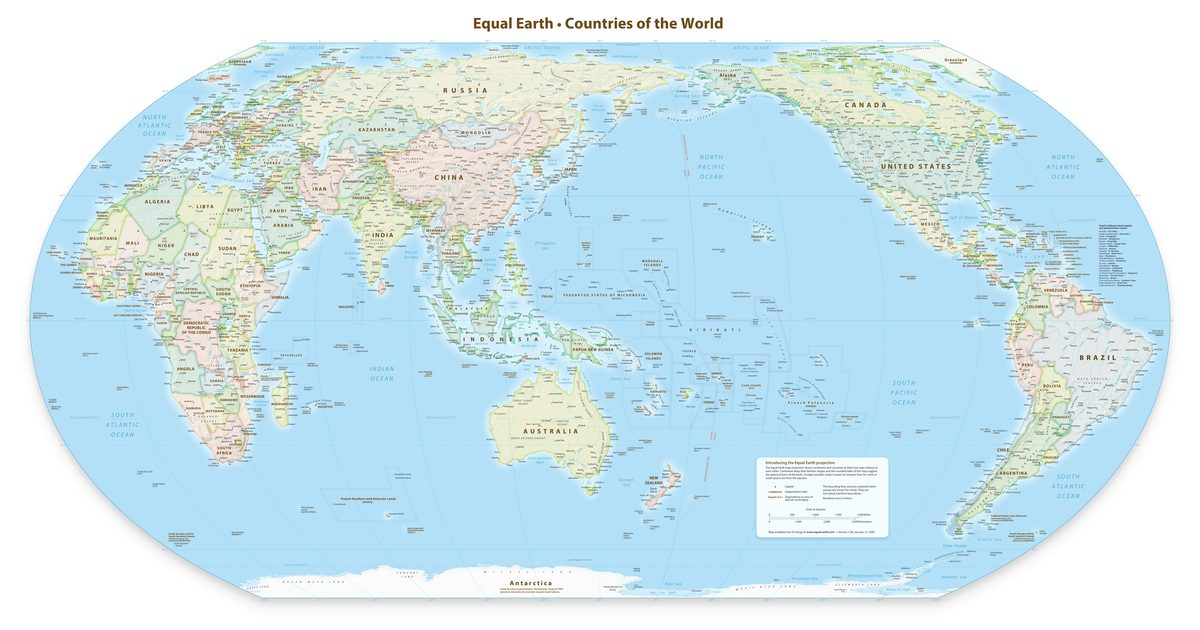
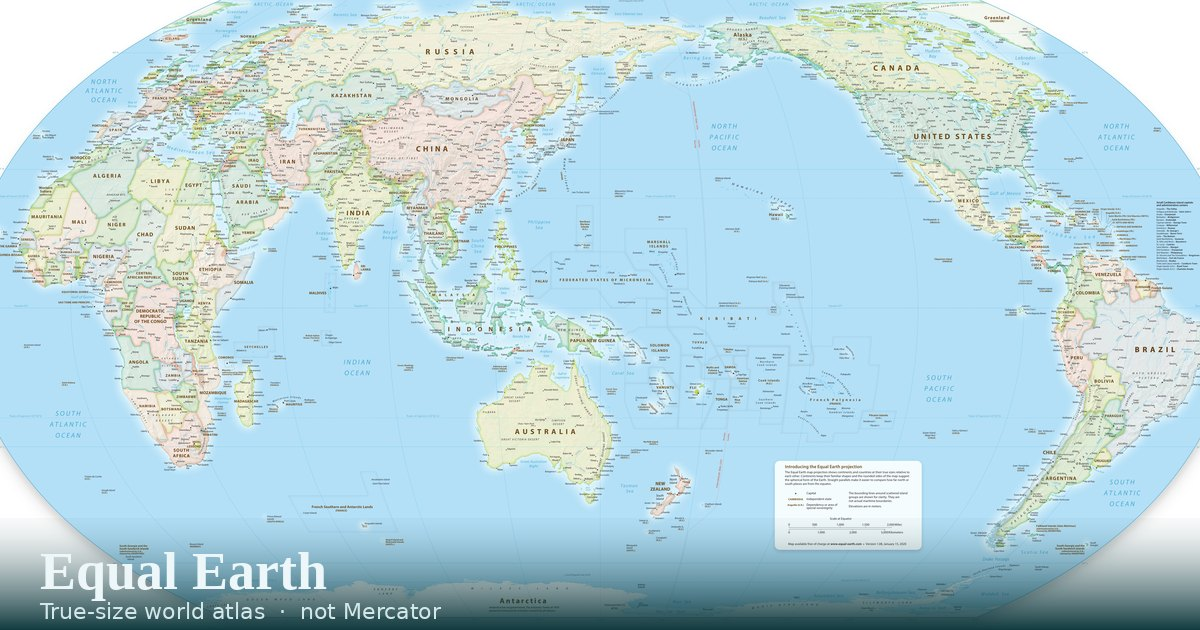
Fix Search Console Dataset markup and give link previews a true-size Equal Earth card.

diff --git a/src/i18n.ts b/src/i18n.ts
@@ -13,11 +13,12 @@ const ATLAS_LOCALE_META: Record<AtlasLocaleId, AtlasLocaleMeta> = {
 
 const EN: AtlasMessages = {
   metaTitle: "Equal Earth Projection — Interactive True-Size World Atlas",
-  metaDescription: "Interactive Equal Earth projection atlas. An equal-area world map with true country sizes, unlike Mercator. Search the map and download wall maps.",
-  ogImageAlt: "Equal Earth projection political world map centered on the Pacific",
+  metaDescription: "Interactive Equal Earth projection atlas: a true-size equal-area world map, unlike Mercator. See Africa's real size, search the map, download wall maps.",
+  ogImageAlt: "Equal Earth projection political world map with true country sizes, unlike Mercator",
   selectedTitle: "{name} — Equal Earth Map",
-  jsonLdAppDescription: "Interactive world atlas using the Equal Earth projection. Equal-area map with true relative country sizes, unlike Mercator, plus Natural Earth vectors and downloadable wall maps.",
-  jsonLdKeywords: "Equal Earth projection, equal-area projection, Mercator projection, true size world map, interactive world atlas, Africa true size",
+  jsonLdAppDescription: "Interactive Equal Earth projection atlas. An equal-area true-size world map with real country sizes, unlike Mercator, plus Natural Earth vectors and downloadable wall maps.",
+  jsonLdDatasetDescription: "Public-domain Natural Earth 1:50 million vectors used by this Equal Earth projection atlas to draw an equal-area true-size world map, including countries, lakes, rivers, and populated places.",
+  jsonLdKeywords: "Equal Earth, Equal Earth projection, equal-area projection, Mercator, Mercator projection, world map, true size map, real size map, interactive atlas, Africa true size",
   skipToSearch: "Skip to map",
   brandHome: "Equal Earth home",
   tagline: "Equal Earth projection, not Mercator",
@@ -166,11 +167,12 @@ const EN: AtlasMessages = {
 
 const ES: AtlasMessages = {
   metaTitle: "Proyección Equal Earth — Atlas mundial interactivo a tamaño real",
-  metaDescription: "Atlas interactivo en proyección Equal Earth. Un mapa de áreas equivalentes con el tamaño real de los países, a diferencia de Mercator. Busca en el mapa y descarga mapas de pared.",
-  ogImageAlt: "Mapa político mundial en proyección Equal Earth centrado en el Pacífico",
+  metaDescription: "Atlas interactivo en proyección Equal Earth: un mapa mundial de tamaño real e igual área, a diferencia de Mercator. Mira el tamaño real de África, busca en el mapa y descarga mapas de pared.",
+  ogImageAlt: "Mapa político mundial en proyección Equal Earth con el tamaño real de los países, a diferencia de Mercator",
   selectedTitle: "{name} — Equal Earth Map",
-  jsonLdAppDescription: "Atlas mundial interactivo con la proyección Equal Earth. Mapa de áreas equivalentes con tamaños relativos reales, a diferencia de Mercator, más vectores de Natural Earth y mapas de pared descargables.",
-  jsonLdKeywords: "proyección Equal Earth, proyección equivalente, proyección Mercator, mapa mundial a tamaño real, atlas mundial interactivo, África tamaño real",
+  jsonLdAppDescription: "Atlas interactivo en proyección Equal Earth. Mapa mundial de tamaño real e igual área, a diferencia de Mercator, más vectores de Natural Earth y mapas de pared descargables.",
+  jsonLdDatasetDescription: "Vectores Natural Earth 1:50 millones de dominio público usados por este atlas en proyección Equal Earth para un mapa mundial de tamaño real e igual área, incluidos países, lagos, ríos y lugares poblados.",
+  jsonLdKeywords: "Equal Earth, proyección Equal Earth, proyección equivalente, Mercator, proyección Mercator, mapa mundial, mapa a tamaño real, atlas interactivo, África tamaño real",
   skipToSearch: "Ir al mapa",
   brandHome: "Inicio de Equal Earth",
   tagline: "Proyección Equal Earth, no Mercator",
@@ -319,11 +321,12 @@ const ES: AtlasMessages = {
 
 const FR: AtlasMessages = {
   metaTitle: "Projection Equal Earth — Atlas mondial interactif à taille réelle",
-  metaDescription: "Atlas interactif en projection Equal Earth. Une carte équivalente avec la taille réelle des pays, contrairement à Mercator. Cherchez sur la carte et téléchargez des cartes murales.",
-  ogImageAlt: "Carte politique mondiale en projection Equal Earth centrée sur le Pacifique",
+  metaDescription: "Atlas interactif en projection Equal Earth : une carte mondiale à taille réelle, équivalente, contrairement à Mercator. Voyez la taille réelle de l’Afrique, cherchez sur la carte, téléchargez des cartes murales.",
+  ogImageAlt: "Carte politique mondiale en projection Equal Earth avec la taille réelle des pays, contrairement à Mercator",
   selectedTitle: "{name} — Equal Earth Map",
-  jsonLdAppDescription: "Atlas mondial interactif en projection Equal Earth. Carte équivalente aux tailles relatives réelles, contrairement à Mercator, plus les vecteurs Natural Earth et des cartes murales téléchargeables.",
-  jsonLdKeywords: "projection Equal Earth, projection équivalente, projection de Mercator, carte mondiale à taille réelle, atlas mondial interactif, Afrique taille réelle",
+  jsonLdAppDescription: "Atlas interactif en projection Equal Earth. Carte mondiale à taille réelle, équivalente, contrairement à Mercator, plus les vecteurs Natural Earth et des cartes murales téléchargeables.",
+  jsonLdDatasetDescription: "Vecteurs Natural Earth 1:50 millions, domaine public, utilisés par cet atlas en projection Equal Earth pour une carte mondiale à taille réelle, y compris pays, lacs, rivières et lieux peuplés.",
+  jsonLdKeywords: "Equal Earth, projection Equal Earth, projection équivalente, Mercator, projection de Mercator, carte mondiale, carte à taille réelle, atlas interactif, Afrique taille réelle",
   skipToSearch: "Aller à la carte",
   brandHome: "Accueil Equal Earth",
   tagline: "Projection Equal Earth, pas Mercator",
@@ -472,11 +475,12 @@ const FR: AtlasMessages = {
 
 const PT: AtlasMessages = {
   metaTitle: "Projeção Equal Earth — Atlas mundial interativo em tamanho real",
-  metaDescription: "Atlas interativo na projeção Equal Earth. Um mapa de áreas equivalentes com o tamanho real dos países, ao contrário de Mercator. Pesquise o mapa e baixe mapas de parede.",
-  ogImageAlt: "Mapa político mundial na projeção Equal Earth centrado no Pacífico",
+  metaDescription: "Atlas interativo na projeção Equal Earth: um mapa-múndi em tamanho real de áreas iguais, ao contrário de Mercator. Veja o tamanho real da África, pesquise o mapa e baixe mapas de parede.",
+  ogImageAlt: "Mapa político mundial na projeção Equal Earth com o tamanho real dos países, ao contrário de Mercator",
   selectedTitle: "{name} — Equal Earth Map",
-  jsonLdAppDescription: "Atlas mundial interativo com a projeção Equal Earth. Mapa de áreas equivalentes com tamanhos relativos reais, ao contrário de Mercator, além de vetores Natural Earth e mapas de parede para download.",
-  jsonLdKeywords: "projeção Equal Earth, projeção equivalente, projeção de Mercator, mapa mundial em tamanho real, atlas mundial interativo, África tamanho real",
+  jsonLdAppDescription: "Atlas interativo na projeção Equal Earth. Mapa-múndi em tamanho real de áreas iguais, ao contrário de Mercator, além de vetores Natural Earth e mapas de parede para download.",
+  jsonLdDatasetDescription: "Vetores Natural Earth 1:50 milhões de domínio público usados por este atlas na projeção Equal Earth para um mapa-múndi em tamanho real, incluindo países, lagos, rios e lugares povoados.",
+  jsonLdKeywords: "Equal Earth, projeção Equal Earth, projeção equivalente, Mercator, projeção de Mercator, mapa-múndi, mapa em tamanho real, atlas interativo, África tamanho real",
   skipToSearch: "Ir para o mapa",
   brandHome: "Início Equal Earth",
   tagline: "Projeção Equal Earth, não Mercator",
@@ -625,11 +629,12 @@ const PT: AtlasMessages = {
 
 const AR: AtlasMessages = {
   metaTitle: "مسقط Equal Earth — أطلس عالمي تفاعلي بالحجم الحقيقي",
-  metaDescription: "أطلس تفاعلي بمسقط Equal Earth. خريطة متساوية المساحات تُظهر الحجم الحقيقي للدول، بخلاف مركاتور. ابحث في الخريطة وحمّل خرائط جدارية.",
-  ogImageAlt: "خريطة سياسية عالمية بمسقط Equal Earth متمركزة على المحيط الهادئ",
+  metaDescription: "أطلس تفاعلي بمسقط Equal Earth: خريطة عالم متساوية المساحات بالحجم الحقيقي، بخلاف مركاتور. شاهد الحجم الحقيقي لأفريقيا، ابحث في الخريطة وحمّل خرائط جدارية.",
+  ogImageAlt: "خريطة سياسية عالمية بمسقط Equal Earth تُظهر الحجم الحقيقي للدول، بخلاف مركاتور",
   selectedTitle: "{name} — Equal Earth Map",
-  jsonLdAppDescription: "أطلس عالمي تفاعلي بمسقط Equal Earth. خريطة متساوية المساحات بأحجام نسبية حقيقية بخلاف مركاتور، مع متجهات Natural Earth وخرائط جدارية قابلة للتنزيل.",
-  jsonLdKeywords: "مسقط Equal Earth، مسقط متساوي المساحات، مسقط مركاتور، خريطة العالم بالحجم الحقيقي، أطلس عالمي تفاعلي، أفريقيا الحجم الحقيقي",
+  jsonLdAppDescription: "أطلس تفاعلي بمسقط Equal Earth. خريطة عالم متساوية المساحات بالحجم الحقيقي، بخلاف مركاتور، مع متجهات Natural Earth وخرائط جدارية قابلة للتنزيل.",
+  jsonLdDatasetDescription: "متجهات Natural Earth بمقياس 1:50 مليونًا، مشاع عام، يستخدمها هذا الأطلس بمسقط Equal Earth لرسم خريطة عالم بالحجم الحقيقي، وتشمل الدول والبحيرات والأنهار والأماكن المأهولة.",
+  jsonLdKeywords: "Equal Earth، مسقط Equal Earth، مسقط متساوي المساحات، مركاتور، مسقط مركاتور، خريطة العالم، خريطة بالحجم الحقيقي، أطلس تفاعلي، أفريقيا الحجم الحقيقي",
   skipToSearch: "تخطي إلى الخريطة",
   brandHome: "الصفحة الرئيسية لـ Equal Earth",
   tagline: "مسقط Equal Earth، وليس مركاتور",
@@ -778,11 +783,12 @@ const AR: AtlasMessages = {
 
 const ZH: AtlasMessages = {
   metaTitle: "Equal Earth 投影 — 真实面积互动世界地图集",
-  metaDescription: "Equal Earth 投影互动地图集。等积世界地图，国家面积真实，不同于墨卡托。可搜索地图并下载墙图。",
-  ogImageAlt: "以太平洋为中心的 Equal Earth 投影政治世界地图",
+  metaDescription: "Equal Earth 投影互动地图集：等积真实面积世界地图，不同于墨卡托。查看非洲真实大小，搜索地图并下载墙图。",
+  ogImageAlt: "Equal Earth 投影政治世界地图，国家面积真实，不同于墨卡托",
   selectedTitle: "{name} — Equal Earth Map",
-  jsonLdAppDescription: "使用 Equal Earth 投影的互动世界地图集。等积地图，国家相对面积真实，不同于墨卡托，并含 Natural Earth 矢量与可下载墙图。",
-  jsonLdKeywords: "Equal Earth 投影, 等积投影, 墨卡托投影, 真实面积世界地图, 互动世界地图集, 非洲真实面积",
+  jsonLdAppDescription: "Equal Earth 投影互动地图集。等积真实面积世界地图，不同于墨卡托，并含 Natural Earth 矢量与可下载墙图。",
+  jsonLdDatasetDescription: "本 Equal Earth 投影地图集所用的公有领域 Natural Earth 1:5000万矢量，用于绘制等积真实面积世界地图，包括国家、湖泊、河流和居民点。",
+  jsonLdKeywords: "Equal Earth, Equal Earth 投影, 等积投影, 墨卡托, 墨卡托投影, 世界地图, 真实面积地图, 互动地图集, 非洲真实面积",
   skipToSearch: "跳到地图",
   brandHome: "Equal Earth 首页",
   tagline: "Equal Earth 投影，而非墨卡托",
@@ -931,11 +937,12 @@ const ZH: AtlasMessages = {
 
 const RU: AtlasMessages = {
   metaTitle: "Проекция Equal Earth — интерактивный атлас истинного размера",
-  metaDescription: "Интерактивный атлас в проекции Equal Earth. Равновеликая карта мира с истинными размерами стран, в отличие от Меркатора. Ищите на карте и скачивайте настенные карты.",
-  ogImageAlt: "Политическая карта мира в проекции Equal Earth с центром на Тихом океане",
+  metaDescription: "Интерактивный атлас в проекции Equal Earth: равновеликая карта мира истинного размера, в отличие от Меркатора. Смотрите реальный размер Африки, ищите на карте, скачивайте настенные карты.",
+  ogImageAlt: "Политическая карта мира в проекции Equal Earth с истинными размерами стран, в отличие от Меркатора",
   selectedTitle: "{name} — Equal Earth Map",
-  jsonLdAppDescription: "Интерактивный атлас мира в проекции Equal Earth. Равновеликая карта с истинными относительными размерами стран, в отличие от Меркатора, плюс векторы Natural Earth и настенные карты для скачивания.",
-  jsonLdKeywords: "проекция Equal Earth, равновеликая проекция, проекция Меркатора, карта мира истинного размера, интерактивный атлас мира, Африка истинный размер",
+  jsonLdAppDescription: "Интерактивный атлас в проекции Equal Earth. Равновеликая карта мира истинного размера, в отличие от Меркатора, плюс векторы Natural Earth и настенные карты для скачивания.",
+  jsonLdDatasetDescription: "Общедоступные векторы Natural Earth масштаба 1:50 млн, которые этот атлас в проекции Equal Earth использует для равновеликой карты мира истинного размера, включая страны, озёра, реки и населённые пункты.",
+  jsonLdKeywords: "Equal Earth, проекция Equal Earth, равновеликая проекция, Меркатор, проекция Меркатора, карта мира, карта истинного размера, интерактивный атлас, Африка истинный размер",
   skipToSearch: "Перейти к карте",
   brandHome: "Главная Equal Earth",
   tagline: "Проекция Equal Earth, не Меркатор",
@@ -1212,6 +1219,9 @@ function applyAtlasSeo() {
         node.name = copy.metaTitle;
         node.description = copy.metaDescription;
         node.keywords = copy.jsonLdKeywords;
+      }
+      if (node["@type"] === "Dataset") {
+        node.description = copy.jsonLdDatasetDescription;
       }
       if (node["@type"] === "FAQPage" && Array.isArray(node.mainEntity)) {
         node.mainEntity = copy.faq.map((item) => ({

diff --git a/index.html b/index.html
@@ -6,7 +6,7 @@
     <title>Equal Earth Projection — Interactive True-Size World Atlas</title>
     <meta
       name="description"
-      content="Interactive Equal Earth projection atlas. An equal-area world map with true country sizes, unlike Mercator. Search the map and download wall maps."
+      content="Interactive Equal Earth projection atlas: a true-size equal-area world map, unlike Mercator. See Africa's real size, search the map, download wall maps."
     />
     <link rel="canonical" href="https://trueearthmap.com/" />
     <link rel="alternate" hreflang="x-default" href="https://trueearthmap.com/" />
@@ -23,29 +23,36 @@
     <meta name="theme-color" content="#006d77" />
     <meta name="color-scheme" content="light" />
     <link rel="icon" href="favicon.svg" type="image/svg+xml" />
-    <link rel="apple-touch-icon" href="og-image.jpg" />
+    <link rel="apple-touch-icon" href="apple-touch-icon.png" sizes="180x180" />
     <link rel="manifest" href="site.webmanifest" />
     <meta property="og:type" content="website" />
     <meta property="og:locale" content="en_US" />
+    <meta property="og:locale:alternate" content="es_ES" />
+    <meta property="og:locale:alternate" content="fr_FR" />
+    <meta property="og:locale:alternate" content="pt_BR" />
+    <meta property="og:locale:alternate" content="ar_AR" />
+    <meta property="og:locale:alternate" content="zh_CN" />
+    <meta property="og:locale:alternate" content="ru_RU" />
     <meta property="og:site_name" content="Equal Earth Map" />
     <meta property="og:title" content="Equal Earth Projection — Interactive True-Size World Atlas" />
     <meta
       property="og:description"
-      content="Interactive Equal Earth projection atlas. An equal-area world map with true country sizes, unlike Mercator. Search the map and download wall maps."
+      content="Interactive Equal Earth projection atlas: a true-size equal-area world map, unlike Mercator. See Africa's real size, search the map, download wall maps."
     />
     <meta property="og:url" content="https://trueearthmap.com/" />
     <meta property="og:image" content="https://trueearthmap.com/og-image.jpg" />
+    <meta property="og:image:type" content="image/jpeg" />
     <meta property="og:image:width" content="1200" />
     <meta property="og:image:height" content="630" />
-    <meta property="og:image:alt" content="Equal Earth projection political world map centered on the Pacific" />
+    <meta property="og:image:alt" content="Equal Earth projection political world map with true country sizes, unlike Mercator" />
     <meta name="twitter:card" content="summary_large_image" />
     <meta name="twitter:title" content="Equal Earth Projection — Interactive True-Size World Atlas" />
     <meta
       name="twitter:description"
-      content="Interactive Equal Earth projection atlas. True country sizes, unlike Mercator. Search the map and download wall maps."
+      content="Interactive Equal Earth projection atlas: a true-size equal-area world map, unlike Mercator. See Africa's real size, search the map, download wall maps."
     />
     <meta name="twitter:image" content="https://trueearthmap.com/og-image.jpg" />
-    <meta name="twitter:image:alt" content="Equal Earth projection political world map centered on the Pacific" />
+    <meta name="twitter:image:alt" content="Equal Earth projection political world map with true country sizes, unlike Mercator" />
     <link rel="stylesheet" href="styles.css" />
     <script>
       (function () {
@@ -84,12 +91,17 @@
             "name": "Equal Earth Map",
             "alternateName": "Equal Earth projection atlas",
             "url": "https://trueearthmap.com/",
-            "description": "Interactive world atlas using the Equal Earth projection. Equal-area map with true relative country sizes, unlike Mercator, plus Natural Earth vectors and downloadable wall maps.",
+            "description": "Interactive Equal Earth projection atlas. An equal-area true-size world map with real country sizes, unlike Mercator, plus Natural Earth vectors and downloadable wall maps.",
             "applicationCategory": "EducationalApplication",
             "operatingSystem": "Any",
             "offers": { "@type": "Offer", "price": "0", "priceCurrency": "USD" },
             "inLanguage": "en",
-            "image": "https://trueearthmap.com/og-image.jpg",
+            "image": {
+              "@type": "ImageObject",
+              "url": "https://trueearthmap.com/og-image.jpg",
+              "width": 1200,
+              "height": 630
+            },
             "creator": [
               { "@type": "Person", "name": "Bojan Šavrič" },
               { "@type": "Person", "name": "Tom Patterson" },
@@ -100,9 +112,9 @@
             "@type": "WebPage",
             "name": "Equal Earth Projection — Interactive True-Size World Atlas",
             "url": "https://trueearthmap.com/",
-            "description": "Interactive Equal Earth projection atlas. An equal-area world map with true country sizes, unlike Mercator. Search the map and download wall maps.",
-            "keywords": "Equal Earth projection, equal-area projection, Mercator projection, true size world map, interactive world atlas, Africa true size",
-            "dateModified": "2026-09-13",
+            "description": "Interactive Equal Earth projection atlas: a true-size equal-area world map, unlike Mercator. See Africa's real size, search the map, download wall maps.",
+            "keywords": "Equal Earth, Equal Earth projection, equal-area projection, Mercator, Mercator projection, world map, true size map, real size map, interactive atlas, Africa true size",
+            "dateModified": "2026-09-20",
             "about": { "@type": "Thing", "name": "Equal Earth projection" },
             "speakable": {
               "@type": "SpeakableSpecification",
@@ -112,9 +124,28 @@
           {
             "@type": "Dataset",
             "name": "Natural Earth 1:50 million",
+            "alternateName": ["Natural Earth 50m", "NE 1:50m"],
+            "description": "Public-domain Natural Earth 1:50 million vectors used by this Equal Earth projection atlas to draw an equal-area true-size world map, including countries, lakes, rivers, and populated places.",
             "license": "https://creativecommons.org/publicdomain/zero/1.0/",
-            "creator": { "@type": "Organization", "name": "Natural Earth" },
-            "url": "https://www.naturalearthdata.com/"
+            "isAccessibleForFree": true,
+            "keywords": ["Natural Earth", "1:50 million", "Equal Earth projection", "equal-area map", "true size world map", "countries", "lakes", "rivers", "populated places"],
+            "creator": { "@type": "Organization", "name": "Natural Earth", "url": "https://www.naturalearthdata.com/" },
+            "url": "https://www.naturalearthdata.com/downloads/50m-cultural-vectors/",
+            "sameAs": [
+              "https://www.naturalearthdata.com/downloads/50m-cultural-vectors/",
+              "https://www.naturalearthdata.com/downloads/50m-physical-vectors/"
+            ],
+            "spatialCoverage": {
+              "@type": "Place",
+              "name": "Earth",
+              "geo": { "@type": "GeoShape", "box": "-90 -180 90 180" }
+            },
+            "variableMeasured": ["country boundaries", "lakes", "rivers", "populated places"],
+            "includedInDataCatalog": {
+              "@type": "DataCatalog",
+              "name": "Natural Earth",
+              "url": "https://www.naturalearthdata.com/"
+            }
           },
           {
             "@type": "FAQPage",

diff --git a/src/types.d.ts b/src/types.d.ts
@@ -48,6 +48,7 @@ interface AtlasMessages {
   ogImageAlt: string;
   selectedTitle: string;
   jsonLdAppDescription: string;
+  jsonLdDatasetDescription: string;
   jsonLdKeywords: string;
   skipToSearch: string;
   brandHome: string;
